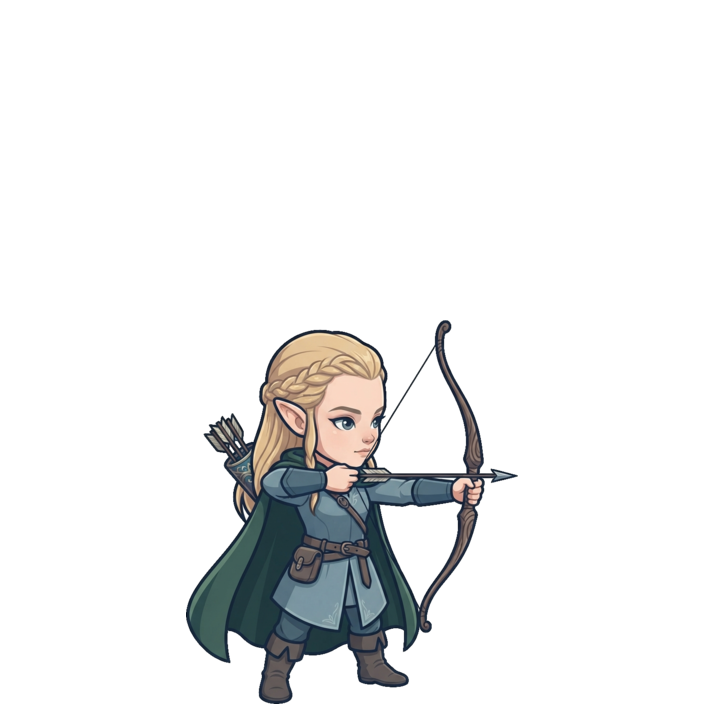
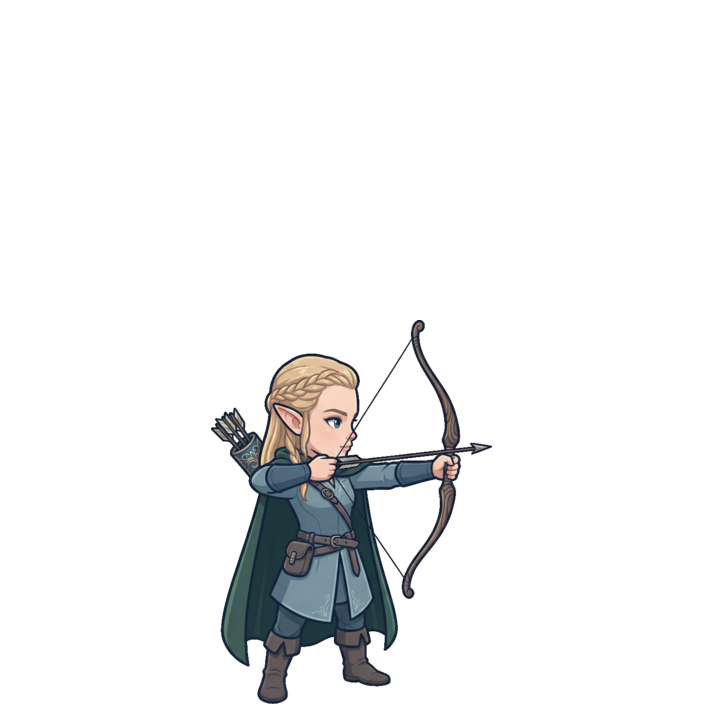
feat(art): エルフの戦闘立ち絵を出し直し、STYLE をエルフ専用にする
戦闘立ち絵だけ出し直す（盤上の駒は据え置き）。旧版は弦が描かれず引き手が
矢の軸を握っていたが、新版は弦が上下の先端から引き手へV字に通っている。
上体も真横に近くなった。

STYLE は共通のものから視点の指定（IMPORTANT — VIEWING ANGLE の段落）を
外した短縮版を使った。短いほうが横向きが強く出たため。ただし共通の STYLE を
書き換えると全ユニットの絵を巻き込むので、短縮版はエルフ専用にする＝全文を
elf_combat_prompt.txt の先頭に置き、doc の STYLE は元のまま残す。

units.md 3.3 に読み分けを足す。ファイルが STYLE 行で始まっていれば差し替え、
POSE 行で始まっていれば doc の STYLE を頭に付ける。1体しか使わない POSE を
ユニットのファイルに直接書く既存の規則と同じ形。

元絵の受け取りが png から jpg に変わったので 01_raw の拡張子も入れ替わる。

Changed region(s): [[0.25, 0.4375, 0.75, 1.0]]

diff --git a/doc/art/units.md b/doc/art/units.md
@@ -179,6 +179,8 @@ SUBJECT（生成プロンプト本体）の置き場：
 
 カタログに載せるのは2体以上で使い回す POSE だけ。1体しか使わない姿勢（乗り物のように、その駒の形に固有のもの）はカタログに置かず、そのユニットの `{skin_id}_combat_prompt.txt` の先頭に直接書く。文面が doc と txt の両方にあると、片方だけ直したときにずれる。
 
+STYLE も同じ扱いにする。1体だけ別の STYLE で出すユニットは、本 doc の STYLE を書き換えず、**その全文をそのユニットの `{skin_id}_combat_prompt.txt` の先頭に置く**（STYLE → POSE → SUBJECT の順。生成時はそのファイルだけを貼る）。ファイルが STYLE 行で始まっていれば差し替え、`POSE` 行で始まっていれば本 doc の STYLE を頭に付ける、という読み分けになる。共有をやめる判断を doc 側でやると、他の全ユニットの絵を巻き込む。
+
 STYLE（共通・固定・ポーズ非依存）:
 ```
 STYLE: A single fantasy tactics-game battle piece of ONE unit, drawn in the
